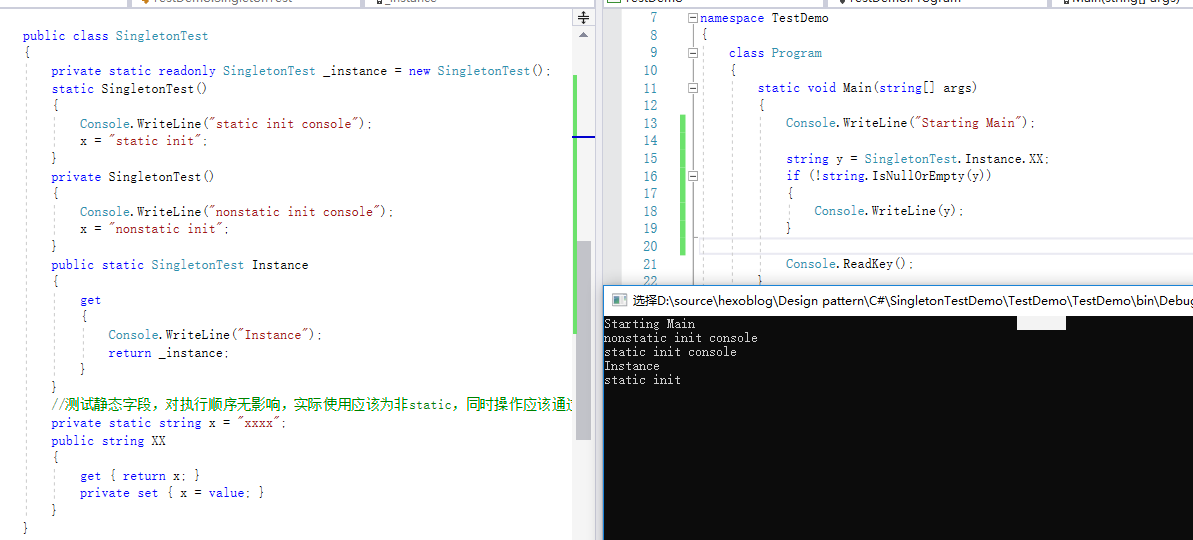
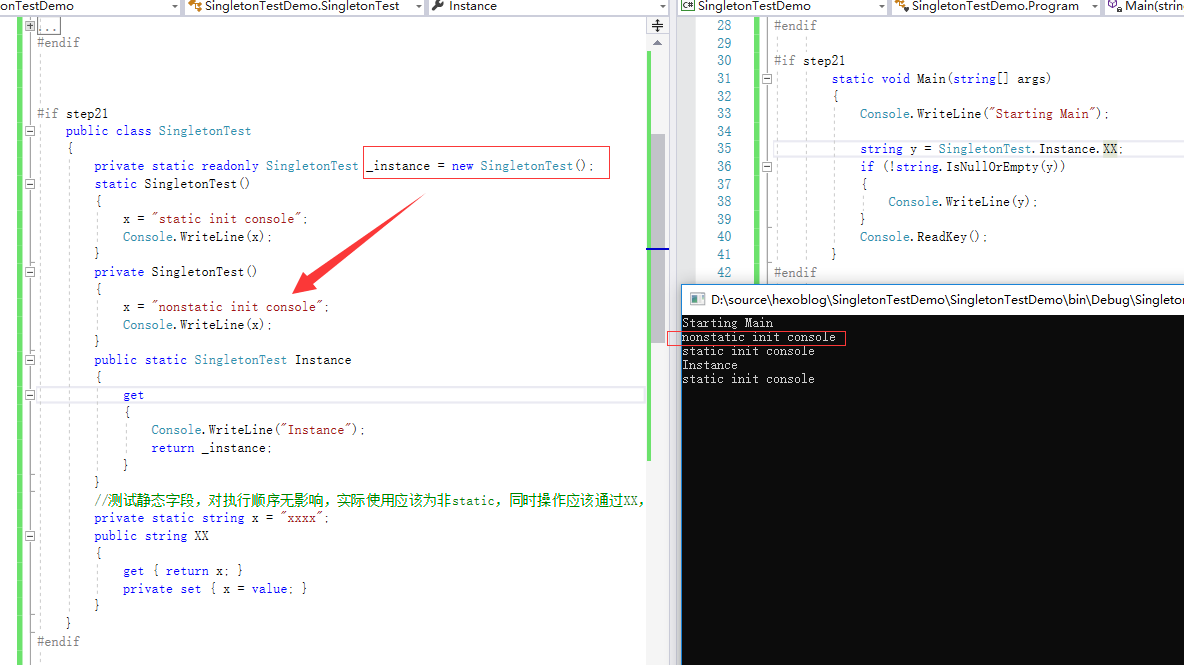
Site updated: 2018-10-14 21:32:53

diff --git a/2018/10/12/1IoDHSingleton/index.html b/2018/10/12/1IoDHSingleton/index.html
@@ -89,11 +89,12 @@
 <meta property="og:locale" content="zh-Hans">
 <meta property="og:image" content="http://yaojx.net/contentimg/1/1.png">
 <meta property="og:image" content="http://yaojx.net/contentimg/1/2.png">
+<meta property="og:image" content="http://yaojx.net/contentimg/1/3.png">
 <meta property="og:image" content="http://yaojx.net/contentimg/1/4.png">
 <meta property="og:image" content="http://yaojx.net/contentimg/1/5.png">
 <meta property="og:image" content="http://yaojx.net/contentimg/1/6.png">
 <meta property="og:image" content="http://yaojx.net/contentimg/1/7.png">
-<meta property="og:updated_time" content="2018-10-14T10:23:35.851Z">
+<meta property="og:updated_time" content="2018-10-14T13:27:44.014Z">
 <meta name="twitter:card" content="summary">
 <meta name="twitter:title" content="单例模式_静态构造函数实现和IoDH实现">
 <meta name="twitter:description" content="单例模式，简单字面意思就是整个程序中只进行一次初始化的操作。相对于静态类，单例模式能做到延迟加载，以及类继承。本文记录“静态构造函数下的单例模式”，以及介绍“Initialization Demand Holder(IoDH)”模式实现。该示例使用VS2017以及C#进行编程。">
@@ -355,10 +356,6 @@
           
 
           
-              <div class="post-description">
-                  　　单例模式，简单字面意思就是整个程序中只进行一次初始化的操作。相对于静态类，单例模式能做到延迟加载，以及类继承。本文记录“静态构造函数下的单例模式”，以及介绍“Initialization Demand Holder(IoDH)”模式实现。该示例使用VS2017以及C#进行编程。
-              </div>
-          
 
         </div>
       </header>
@@ -373,16 +370,19 @@
       
 
       
-        <h2 id="一-前言"><a href="#一-前言" class="headerlink" title="一.前言"></a>一.前言</h2><p>　　单例模式，简单字面意思就是整个程序中只进行一次初始化的操作。相对于静态类，单例模式能做到延迟加载，以及类继承。<br>　　目前有6+种实现方式。本文只记录“静态构造函数下的单例模式”和“Initialization Demand Holder(IoDH)”。其他部分在文末有转载链接可以查看。</p>
-<h2 id="二-代码记录"><a href="#二-代码记录" class="headerlink" title="二.代码记录"></a>二.代码记录</h2><h3 id="2-1-静态构造函数实现单例模式"><a href="#2-1-静态构造函数实现单例模式" class="headerlink" title="2.1  静态构造函数实现单例模式"></a>2.1  静态构造函数实现单例模式</h3><h4 id="2-1-1-执行记录"><a href="#2-1-1-执行记录" class="headerlink" title="2.1.1 执行记录"></a>2.1.1 执行记录</h4><p>　　这里我们直接上代码，根据结果进行记录：</p>
+        <p>　　单例模式，简单字面意思就是整个程序中只进行一次初始化的操作。相对于静态类，单例模式能做到延迟加载，以及类继承。本文记录“静态构造函数下的单例模式”，以及介绍“Initialization Demand Holder(IoDH)”模式实现。该示例使用VS2017以及C#进行编程。<br><a id="more"></a></p>
+<h2 id="一-前言"><a href="#一-前言" class="headerlink" title="一.前言"></a>一.前言</h2><p>　　单例模式，是编程中使用频率相当高的一种最简单的设计模式。可以简单理解为静态类的设计模式化。为什么会区别于静态类？</p>
+<p>　　静态类，一般用于“工具类”。在数据库连接等等场景下需要多线程的就不能使用静态类，其他应用于单线程下的操作，如文件读取，一般使用静态类。在软件优化中，第一个问题是初始化：静态类，会在程序启动的时候就会初始化，然后全局生存到进程结束。真有这个必要吗？我们打开程序时，一般先是登陆窗口，如果这个时候，一堆静态工具类也要加载初始化，那不就要等好久，还特占内存。</p>
+<p>　　所以在这个情况下产生了能做到延迟加载的单例模式，当然，它还能进行类继承等等其他解耦操作（不过该部分涉及到其他涉及模式，本文不深入讨论）。</p>
+<h2 id="二-代码记录"><a href="#二-代码记录" class="headerlink" title="二.代码记录"></a>二.代码记录</h2><h3 id="2-1-静态构造函数实现单例模式"><a href="#2-1-静态构造函数实现单例模式" class="headerlink" title="2.1  静态构造函数实现单例模式"></a>2.1  静态构造函数实现单例模式</h3><h4 id="2-1-1-静态类何时初始化"><a href="#2-1-1-静态类何时初始化" class="headerlink" title="2.1.1 静态类何时初始化"></a>2.1.1 静态类何时初始化</h4><p>　　这里我们直接上代码，根据结果进行记录：</p>
 <p>　　字段x初始化会在构造函数前面先执行。（重点。后面单例模式里面执行代码和想象中不同，考虑是这个原因。）</p>
-<figure class="highlight java"><table><tr><td class="gutter"><pre><span class="line">1</span><br><span class="line">2</span><br><span class="line">3</span><br><span class="line">4</span><br><span class="line">5</span><br><span class="line">6</span><br><span class="line">7</span><br><span class="line">8</span><br><span class="line">9</span><br><span class="line">10</span><br><span class="line">11</span><br><span class="line">12</span><br><span class="line">13</span><br><span class="line">14</span><br><span class="line">15</span><br><span class="line">16</span><br><span class="line">17</span><br><span class="line">18</span><br><span class="line">19</span><br><span class="line">20</span><br><span class="line">21</span><br><span class="line">22</span><br><span class="line">23</span><br><span class="line">24</span><br></pre></td><td class="code"><pre><span class="line"><span class="keyword">public</span> <span class="class"><span class="keyword">class</span> <span class="title">SingletonTest</span></span></span><br><span class="line"><span class="class"></span>&#123;</span><br><span class="line">    <span class="keyword">public</span> <span class="keyword">static</span> string x = EchoAndReturn(<span class="string">"A_In type initializer"</span>);</span><br><span class="line">    <span class="comment">/// </span></span><br><span class="line">    <span class="comment">/// 当没有写静态构造函数时，框架会自动生成</span></span><br><span class="line">    <span class="comment">/// 导致静态字段的初始化跑到了静态方法调用之前</span></span><br><span class="line">    <span class="comment">/// 造成对象的提前初始化</span></span><br><span class="line">    <span class="comment">/// </span></span><br><span class="line">    <span class="function"><span class="keyword">static</span> <span class="title">SingletonTest</span><span class="params">()</span></span></span><br><span class="line"><span class="function">    </span>&#123;</span><br><span class="line">        x = <span class="string">"A_static"</span>;</span><br><span class="line">        Console.WriteLine(<span class="string">"A_static init"</span>);</span><br><span class="line">    &#125;</span><br><span class="line">    <span class="function"><span class="keyword">public</span> <span class="title">SingletonTest</span><span class="params">()</span></span></span><br><span class="line"><span class="function">    </span>&#123;</span><br><span class="line">        x = <span class="string">"A_nonstatic"</span>;</span><br><span class="line">        Console.WriteLine(<span class="string">"A_nonstatic init"</span>);</span><br><span class="line">    &#125;</span><br><span class="line">    <span class="function"><span class="keyword">public</span> <span class="keyword">static</span> string <span class="title">EchoAndReturn</span><span class="params">(string s)</span></span></span><br><span class="line"><span class="function">    </span>&#123;</span><br><span class="line">        Console.WriteLine(s);</span><br><span class="line">        <span class="keyword">return</span> s;</span><br><span class="line">    &#125;</span><br><span class="line">&#125;</span><br></pre></td></tr></table></figure>
+<figure class="highlight"><table><tr><td class="gutter"><pre><span class="line">1</span><br><span class="line">2</span><br><span class="line">3</span><br><span class="line">4</span><br><span class="line">5</span><br><span class="line">6</span><br><span class="line">7</span><br><span class="line">8</span><br><span class="line">9</span><br><span class="line">10</span><br><span class="line">11</span><br><span class="line">12</span><br><span class="line">13</span><br><span class="line">14</span><br><span class="line">15</span><br><span class="line">16</span><br><span class="line">17</span><br><span class="line">18</span><br><span class="line">19</span><br><span class="line">20</span><br><span class="line">21</span><br><span class="line">22</span><br><span class="line">23</span><br><span class="line">24</span><br><span class="line">25</span><br><span class="line">26</span><br><span class="line">27</span><br><span class="line">28</span><br><span class="line">29</span><br><span class="line">30</span><br><span class="line">31</span><br></pre></td><td class="code"><pre><span class="line">#if step1</span><br><span class="line">    <span class="keyword">public</span> <span class="class"><span class="keyword">class</span> <span class="title">SingletonTest</span></span></span><br><span class="line"><span class="class">    </span>&#123;</span><br><span class="line">        <span class="keyword">public</span> <span class="keyword">static</span> string x = EchoAndReturn(<span class="string">"A_In type initializer"</span>);</span><br><span class="line"></span><br><span class="line">#if step1needstatic</span><br><span class="line">        <span class="comment">/// &lt;summary&gt;</span></span><br><span class="line">        <span class="comment">/// 当没有写静态构造函数时，框架会自动生成</span></span><br><span class="line">        <span class="comment">/// 导致静态字段的初始化跑到了静态方法调用之前</span></span><br><span class="line">        <span class="comment">/// 造成对象的提前初始化</span></span><br><span class="line">        <span class="comment">/// &lt;/summary&gt;</span></span><br><span class="line">        <span class="function"><span class="keyword">static</span> <span class="title">SingletonTest</span><span class="params">()</span></span></span><br><span class="line"><span class="function">        </span>&#123;</span><br><span class="line">            x = <span class="string">"A_static init"</span>;</span><br><span class="line">            Console.WriteLine(x);</span><br><span class="line">        &#125;</span><br><span class="line">#endif</span><br><span class="line"></span><br><span class="line">        <span class="function"><span class="keyword">public</span> <span class="title">SingletonTest</span><span class="params">()</span></span></span><br><span class="line"><span class="function">        </span>&#123;</span><br><span class="line">            x = <span class="string">"A_nonstatic init"</span>;</span><br><span class="line">            Console.WriteLine(x);</span><br><span class="line">        &#125;</span><br><span class="line"></span><br><span class="line">        <span class="function"><span class="keyword">public</span> <span class="keyword">static</span> string <span class="title">EchoAndReturn</span><span class="params">(string s)</span></span></span><br><span class="line"><span class="function">        </span>&#123;</span><br><span class="line">            Console.WriteLine(s);</span><br><span class="line">            <span class="keyword">return</span> s;</span><br><span class="line">        &#125;</span><br><span class="line">    &#125;</span><br><span class="line">#endif</span><br></pre></td></tr></table></figure>
 <p>　　对应main函数如下：</p>
-<figure class="highlight java"><table><tr><td class="gutter"><pre><span class="line">1</span><br><span class="line">2</span><br><span class="line">3</span><br><span class="line">4</span><br><span class="line">5</span><br><span class="line">6</span><br><span class="line">7</span><br><span class="line">8</span><br><span class="line">9</span><br><span class="line">10</span><br><span class="line">11</span><br><span class="line">12</span><br><span class="line">13</span><br><span class="line">14</span><br><span class="line">15</span><br><span class="line">16</span><br><span class="line">17</span><br><span class="line">18</span><br></pre></td><td class="code"><pre><span class="line"><span class="function"><span class="keyword">static</span> <span class="keyword">void</span> <span class="title">Main</span><span class="params">(string[] args)</span></span></span><br><span class="line"><span class="function"></span>&#123;</span><br><span class="line">    Console.WriteLine(<span class="string">"Starting Main"</span>);</span><br><span class="line">    <span class="comment">//SingletonTest_inherit b = new SingletonTest_inherit();</span></span><br><span class="line">    SingletonTest.EchoAndReturn(<span class="string">"Echo!"</span>);</span><br><span class="line">    Console.WriteLine(<span class="string">"After echo"</span>);</span><br><span class="line">    string y = SingletonTest.x;</span><br><span class="line">    <span class="keyword">if</span> (!string.IsNullOrEmpty(y))</span><br><span class="line">    &#123;</span><br><span class="line">        Console.WriteLine(y);</span><br><span class="line">    &#125;</span><br><span class="line">    <span class="comment">//y = SingletonTest_inherit.x;</span></span><br><span class="line">    <span class="comment">//if (!string.IsNullOrEmpty(y))</span></span><br><span class="line">    <span class="comment">//&#123;</span></span><br><span class="line">    <span class="comment">//    Console.WriteLine(y);</span></span><br><span class="line">    <span class="comment">//&#125;</span></span><br><span class="line">    Console.ReadKey();</span><br><span class="line">&#125;</span><br></pre></td></tr></table></figure>
-<p>git代码库: <a href="https://github.com/YaojiaxinPC/hexoblog/tree/master/TestDemo" target="_blank" rel="noopener">Codes</a></p>
+<figure class="highlight"><table><tr><td class="gutter"><pre><span class="line">1</span><br><span class="line">2</span><br><span class="line">3</span><br><span class="line">4</span><br><span class="line">5</span><br><span class="line">6</span><br><span class="line">7</span><br><span class="line">8</span><br><span class="line">9</span><br><span class="line">10</span><br><span class="line">11</span><br><span class="line">12</span><br><span class="line">13</span><br><span class="line">14</span><br><span class="line">15</span><br><span class="line">16</span><br></pre></td><td class="code"><pre><span class="line">#if step1</span><br><span class="line">        <span class="function"><span class="keyword">static</span> <span class="keyword">void</span> <span class="title">Main</span><span class="params">(string[] args)</span></span></span><br><span class="line"><span class="function">        </span>&#123;</span><br><span class="line">            Console.WriteLine(<span class="string">"Starting Main"</span>);</span><br><span class="line">            <span class="comment">//使用静态类</span></span><br><span class="line">            SingletonTest.EchoAndReturn(<span class="string">"Echo!"</span>);</span><br><span class="line">            Console.WriteLine(<span class="string">"After echo"</span>);</span><br><span class="line">            <span class="comment">//取出静态类中的静态成员x</span></span><br><span class="line">            string y = SingletonTest.x;</span><br><span class="line">            <span class="keyword">if</span> (!string.IsNullOrEmpty(y))</span><br><span class="line">            &#123;</span><br><span class="line">                Console.WriteLine(y);</span><br><span class="line">            &#125;</span><br><span class="line">            Console.ReadKey();</span><br><span class="line">        &#125;</span><br><span class="line">#endif</span><br></pre></td></tr></table></figure>
 <p><img src="/contentimg/1/1.png" alt="Result pic 1" title="2.1.1.1执行情况"></p>
-<p>　　可以看到：</p>
-<p>　　1.程序运行–》2.执行main函数–》3.使用到静态SingletonTest–》4.静态字段x的初始化–》5.静态构造函数的初始化–》6.静态函数EchoAndReturn的实现<br>　　–》字段x的值由于执行顺序，不是默认赋值的”A_In type initializer”，而是静态构造函数中赋值的x = “A_static”;</p>
+<p>　　根据main函数代码，直觉上，应该先输出“Starting Main”，然后输出“Echo!”，最后输出”After echo”和SingletonTest.x。总共4个输出。</p>
+<p>　　但是实际：</p>
+<p>　　1.程序运行–》2.执行main函数–》3.使用到静态SingletonTest–》4.静态字段x的初始化–》5.静态构造函数的初始化–》6.静态函数EchoAndReturn的使用<br>　　–》字段x的值由于执行顺序，不是默认赋值的”A_In type initializer”，而是静态构造函数中赋值的“A_static”;</p>
 <p>　　如果这里不加静态构造函数？</p>
 <p><img src="/contentimg/1/2.png" alt="Result pic 2" title="2.1.1.2执行情况"></p>
 <p>　　1.程序运行–》2.静态类型的初始化，静态SingletonTest、字段x提前初始化–》3.执行main函数。</p>
@@ -392,7 +392,7 @@
 </blockquote>
 <p>　　比较得出：</p>
 <p>　　<strong><em>显式静态构造函数使对象在被调用的时候才初始化，避免了static类型在程序启动的时候就提前初始化的问题。有利于程序的快速启动与内存的控制。</em></strong></p>
-<h4 id="2-1-2-单例模式实现"><a href="#2-1-2-单例模式实现" class="headerlink" title="2.1.2 单例模式实现"></a>2.1.2 单例模式实现</h4><figure class="highlight java"><table><tr><td class="gutter"><pre><span class="line">1</span><br><span class="line">2</span><br><span class="line">3</span><br><span class="line">4</span><br><span class="line">5</span><br><span class="line">6</span><br><span class="line">7</span><br><span class="line">8</span><br><span class="line">9</span><br><span class="line">10</span><br><span class="line">11</span><br><span class="line">12</span><br><span class="line">13</span><br><span class="line">14</span><br><span class="line">15</span><br><span class="line">16</span><br><span class="line">17</span><br></pre></td><td class="code"><pre><span class="line"><span class="keyword">public</span> <span class="class"><span class="keyword">class</span> <span class="title">SingletonTest</span></span></span><br><span class="line"><span class="class"></span>&#123;</span><br><span class="line">    <span class="keyword">private</span> <span class="keyword">static</span> readonly SingletonTest _instance = <span class="keyword">new</span> SingletonTest();</span><br><span class="line">    <span class="function"><span class="keyword">static</span> <span class="title">SingletonTest</span><span class="params">()</span></span></span><br><span class="line"><span class="function">    </span>&#123;</span><br><span class="line">    &#125;</span><br><span class="line">    <span class="function"><span class="keyword">private</span> <span class="title">SingletonTest</span><span class="params">()</span></span></span><br><span class="line"><span class="function">    </span>&#123;</span><br><span class="line">    &#125;</span><br><span class="line">    <span class="keyword">public</span> <span class="keyword">static</span> SingletonTest Instance</span><br><span class="line">    &#123;</span><br><span class="line">        get</span><br><span class="line">        &#123;</span><br><span class="line">            <span class="keyword">return</span> _instance;</span><br><span class="line">        &#125;</span><br><span class="line">    &#125;</span><br><span class="line">&#125;</span><br></pre></td></tr></table></figure>
+<h4 id="2-1-2-简单静态类单例模式实现"><a href="#2-1-2-简单静态类单例模式实现" class="headerlink" title="2.1.2 简单静态类单例模式实现"></a>2.1.2 简单静态类单例模式实现</h4><figure class="highlight java"><table><tr><td class="gutter"><pre><span class="line">1</span><br><span class="line">2</span><br><span class="line">3</span><br><span class="line">4</span><br><span class="line">5</span><br><span class="line">6</span><br><span class="line">7</span><br><span class="line">8</span><br><span class="line">9</span><br><span class="line">10</span><br><span class="line">11</span><br><span class="line">12</span><br><span class="line">13</span><br><span class="line">14</span><br><span class="line">15</span><br><span class="line">16</span><br><span class="line">17</span><br></pre></td><td class="code"><pre><span class="line"><span class="keyword">public</span> <span class="class"><span class="keyword">class</span> <span class="title">SingletonTest</span></span></span><br><span class="line"><span class="class"></span>&#123;</span><br><span class="line">    <span class="keyword">private</span> <span class="keyword">static</span> readonly SingletonTest _instance = <span class="keyword">new</span> SingletonTest();</span><br><span class="line">    <span class="function"><span class="keyword">static</span> <span class="title">SingletonTest</span><span class="params">()</span></span></span><br><span class="line"><span class="function">    </span>&#123;</span><br><span class="line">    &#125;</span><br><span class="line">    <span class="function"><span class="keyword">private</span> <span class="title">SingletonTest</span><span class="params">()</span></span></span><br><span class="line"><span class="function">    </span>&#123;</span><br><span class="line">    &#125;</span><br><span class="line">    <span class="keyword">public</span> <span class="keyword">static</span> SingletonTest Instance</span><br><span class="line">    &#123;</span><br><span class="line">        get</span><br><span class="line">        &#123;</span><br><span class="line">            <span class="keyword">return</span> _instance;</span><br><span class="line">        &#125;</span><br><span class="line">    &#125;</span><br><span class="line">&#125;</span><br></pre></td></tr></table></figure>
 <ol>
 <li>将构造函数private；</li>
 <li>显式实现static构造函数；</li>
@@ -400,7 +400,13 @@
 <li>public开放实例对外访问接口 Instance 属性。</li>
 </ol>
 <p>这样避免了静态类型的提前初始化，同时直接在初始化时候赋值的方式也避免了需要加锁的问题。</p>
-<h4 id="2-1-3-单例模式执行顺序"><a href="#2-1-3-单例模式执行顺序" class="headerlink" title="2.1.3 单例模式执行顺序"></a>2.1.3 单例模式执行顺序</h4><figure class="highlight java"><table><tr><td class="gutter"><pre><span class="line">1</span><br><span class="line">2</span><br><span class="line">3</span><br><span class="line">4</span><br><span class="line">5</span><br><span class="line">6</span><br><span class="line">7</span><br><span class="line">8</span><br><span class="line">9</span><br><span class="line">10</span><br><span class="line">11</span><br><span class="line">12</span><br><span class="line">13</span><br><span class="line">14</span><br><span class="line">15</span><br><span class="line">16</span><br><span class="line">17</span><br><span class="line">18</span><br><span class="line">19</span><br><span class="line">20</span><br><span class="line">21</span><br><span class="line">22</span><br><span class="line">23</span><br><span class="line">24</span><br><span class="line">25</span><br><span class="line">26</span><br><span class="line">27</span><br><span class="line">28</span><br><span class="line">29</span><br><span class="line">30</span><br><span class="line">31</span><br><span class="line">32</span><br><span class="line">33</span><br><span class="line">34</span><br><span class="line">35</span><br><span class="line">36</span><br><span class="line">37</span><br><span class="line">38</span><br><span class="line">39</span><br><span class="line">40</span><br><span class="line">41</span><br><span class="line">42</span><br><span class="line">43</span><br><span class="line">44</span><br><span class="line">45</span><br><span class="line">46</span><br><span class="line">47</span><br><span class="line">48</span><br><span class="line">49</span><br><span class="line">50</span><br><span class="line">51</span><br><span class="line">52</span><br><span class="line">53</span><br><span class="line">54</span><br><span class="line">55</span><br><span class="line">56</span><br><span class="line">57</span><br><span class="line">58</span><br></pre></td><td class="code"><pre><span class="line">    <span class="keyword">public</span> <span class="class"><span class="keyword">class</span> <span class="title">SingletonTest</span></span></span><br><span class="line"><span class="class">    </span>&#123;</span><br><span class="line">        <span class="keyword">private</span> <span class="keyword">static</span> readonly SingletonTest _instance = <span class="keyword">new</span> SingletonTest();</span><br><span class="line">        <span class="function"><span class="keyword">static</span> <span class="title">SingletonTest</span><span class="params">()</span></span></span><br><span class="line"><span class="function">        </span>&#123;</span><br><span class="line">            Console.WriteLine(<span class="string">"static init console"</span>);</span><br><span class="line">            x = <span class="string">"static init"</span>;</span><br><span class="line">        &#125;</span><br><span class="line">        <span class="function"><span class="keyword">private</span> <span class="title">SingletonTest</span><span class="params">()</span></span></span><br><span class="line"><span class="function">        </span>&#123;</span><br><span class="line">            Console.WriteLine(<span class="string">"nonstatic init console"</span>);</span><br><span class="line">            x = <span class="string">"nonstatic init"</span>;</span><br><span class="line">        &#125;</span><br><span class="line">        <span class="keyword">public</span> <span class="keyword">static</span> SingletonTest Instance</span><br><span class="line">        &#123;</span><br><span class="line">            get</span><br><span class="line">            &#123;</span><br><span class="line">                Console.WriteLine(<span class="string">"Instance"</span>);</span><br><span class="line">                <span class="keyword">return</span> _instance;</span><br><span class="line">            &#125;</span><br><span class="line">        &#125;</span><br><span class="line">        <span class="comment">//测试静态字段，对执行顺序无影响，实际使用应该为非static，同时操作应该通过XX，不能直接操作本字段</span></span><br><span class="line">        <span class="keyword">private</span> <span class="keyword">static</span> string x = <span class="string">"xxxx"</span>;</span><br><span class="line">        <span class="keyword">public</span> string XX</span><br><span class="line">        &#123;</span><br><span class="line">            get &#123; <span class="keyword">return</span> x; &#125;</span><br><span class="line">            <span class="keyword">private</span> set &#123; x = value; &#125;</span><br><span class="line">        &#125;</span><br><span class="line">    &#125;</span><br><span class="line">``` </span><br><span class="line">　　main函数中输出 Console.WriteLine( SingletonTest.Instance.XX);</span><br><span class="line">　　执行结果：</span><br><span class="line"></span><br><span class="line">![Result pic <span class="number">3</span>](/contentimg/<span class="number">1</span>/<span class="number">3</span>.png <span class="string">"2.1.3执行情况"</span>)</span><br><span class="line"></span><br><span class="line">　　<span class="number">1</span>.程序启动–》<span class="number">2</span>.遇到类SingletonTest–》<span class="number">3</span>.优先初始化<span class="keyword">static</span>属性_instance（Instance没有set,显式写也不会执行）–》<span class="number">4</span>._instance=<span class="keyword">new</span> SingletonTest()进行实例化–》<span class="number">5</span>.完成<span class="keyword">static</span>属性的初始化后进行<span class="keyword">static</span>构造函数的初始化–》<span class="number">6</span>.调用SingletonTest.Instance–》<span class="number">7</span>.获取结果XX得”<span class="keyword">static</span> init”</span><br><span class="line">　　–》注意这里不是先<span class="keyword">static</span> init，然后才nonstatic init。因为属性的初始化优先于<span class="keyword">static</span>构造函数。所以最后的结果是静态构造函数得执行顺序在nonstatic的后面。</span><br><span class="line"></span><br><span class="line">#### 2.1.4 继承问题</span><br><span class="line"></span><br><span class="line">　　这里题外话记录一下继承时的表现，进一步展示函数执行顺序：</span><br><span class="line"></span><br><span class="line">　　增加子类型：</span><br><span class="line"></span><br><span class="line">``` java</span><br><span class="line">    public class SingletonTest_inherit : SingletonTest</span><br><span class="line">    &#123;</span><br><span class="line">        <span class="function"><span class="keyword">static</span> <span class="title">SingletonTest_inherit</span><span class="params">()</span></span></span><br><span class="line"><span class="function">        </span>&#123;</span><br><span class="line">            x = <span class="string">"B_static"</span>;</span><br><span class="line">            Console.WriteLine(<span class="string">"B_static init"</span>);</span><br><span class="line">        &#125;</span><br><span class="line">        <span class="function"><span class="keyword">public</span> <span class="title">SingletonTest_inherit</span><span class="params">()</span></span></span><br><span class="line"><span class="function">        </span>&#123;</span><br><span class="line">            x = <span class="string">"B_nonstatic"</span>;</span><br><span class="line">            Console.WriteLine(<span class="string">"B_nonstatic init"</span>);</span><br><span class="line">        &#125;</span><br><span class="line">    &#125;</span><br></pre></td></tr></table></figure>
+<h4 id="2-1-3-单例模式执行顺序"><a href="#2-1-3-单例模式执行顺序" class="headerlink" title="2.1.3 单例模式执行顺序"></a>2.1.3 单例模式执行顺序</h4><figure class="highlight"><table><tr><td class="gutter"><pre><span class="line">1</span><br><span class="line">2</span><br><span class="line">3</span><br><span class="line">4</span><br><span class="line">5</span><br><span class="line">6</span><br><span class="line">7</span><br><span class="line">8</span><br><span class="line">9</span><br><span class="line">10</span><br><span class="line">11</span><br><span class="line">12</span><br><span class="line">13</span><br><span class="line">14</span><br><span class="line">15</span><br><span class="line">16</span><br><span class="line">17</span><br><span class="line">18</span><br><span class="line">19</span><br><span class="line">20</span><br><span class="line">21</span><br><span class="line">22</span><br><span class="line">23</span><br><span class="line">24</span><br><span class="line">25</span><br><span class="line">26</span><br><span class="line">27</span><br><span class="line">28</span><br><span class="line">29</span><br><span class="line">30</span><br><span class="line">31</span><br></pre></td><td class="code"><pre><span class="line">    #if step21</span><br><span class="line">    <span class="keyword">public</span> <span class="class"><span class="keyword">class</span> <span class="title">SingletonTest</span></span></span><br><span class="line"><span class="class">    </span>&#123;</span><br><span class="line">        <span class="keyword">private</span> <span class="keyword">static</span> readonly SingletonTest _instance = <span class="keyword">new</span> SingletonTest();</span><br><span class="line">        <span class="function"><span class="keyword">static</span> <span class="title">SingletonTest</span><span class="params">()</span></span></span><br><span class="line"><span class="function">        </span>&#123;</span><br><span class="line">            x = <span class="string">"static init console"</span>;</span><br><span class="line">            Console.WriteLine(x);</span><br><span class="line">        &#125;</span><br><span class="line">        <span class="function"><span class="keyword">private</span> <span class="title">SingletonTest</span><span class="params">()</span></span></span><br><span class="line"><span class="function">        </span>&#123;</span><br><span class="line">            x = <span class="string">"nonstatic init console"</span>;</span><br><span class="line">            Console.WriteLine(x);</span><br><span class="line">        &#125;</span><br><span class="line">        <span class="keyword">public</span> <span class="keyword">static</span> SingletonTest Instance</span><br><span class="line">        &#123;</span><br><span class="line">            get</span><br><span class="line">            &#123;</span><br><span class="line">                Console.WriteLine(<span class="string">"Instance"</span>);</span><br><span class="line">                <span class="keyword">return</span> _instance;</span><br><span class="line">            &#125;</span><br><span class="line">        &#125;</span><br><span class="line">        <span class="comment">//测试静态字段，对执行顺序无影响，实际使用应该为非static，同时操作应该通过XX，不能直接操作本字段</span></span><br><span class="line">        <span class="keyword">private</span> <span class="keyword">static</span> string x = <span class="string">"xxxx"</span>;</span><br><span class="line">        <span class="keyword">public</span> string XX</span><br><span class="line">        &#123;</span><br><span class="line">            get &#123; <span class="keyword">return</span> x; &#125;</span><br><span class="line">            <span class="keyword">private</span> set &#123; x = value; &#125;</span><br><span class="line">        &#125;</span><br><span class="line">    &#125;</span><br><span class="line">#endif</span><br></pre></td></tr></table></figure>
+<p>　　main函数中输出 Console.WriteLine( SingletonTest.Instance.XX);<br>　　执行结果：</p>
+<p><img src="/contentimg/1/3.png" alt="Result pic 3" title="2.1.3执行情况"></p>
+<p>　　1.程序启动–》2.遇到类SingletonTest–》3.优先初始化static属性_instance–》4._instance=new SingletonTest()进行实例化–》5.完成static属性的初始化后进行static构造函数的初始化–》6.调用SingletonTest.Instance–》7.获取结果XX得”static init”<br>　　–》注意这里不是先static init，然后才nonstatic init。因为属性的初始化优先于static构造函数。所以最后的结果是静态构造函数得执行顺序在nonstatic的后面。</p>
+<h4 id="2-1-4-继承问题"><a href="#2-1-4-继承问题" class="headerlink" title="2.1.4 继承问题"></a>2.1.4 继承问题</h4><p>　　这里题外话记录一下继承时的表现，进一步展示函数执行顺序：</p>
+<p>　　增加子类型：</p>
+<figure class="highlight java"><table><tr><td class="gutter"><pre><span class="line">1</span><br><span class="line">2</span><br><span class="line">3</span><br><span class="line">4</span><br><span class="line">5</span><br><span class="line">6</span><br><span class="line">7</span><br><span class="line">8</span><br><span class="line">9</span><br><span class="line">10</span><br><span class="line">11</span><br><span class="line">12</span><br><span class="line">13</span><br></pre></td><td class="code"><pre><span class="line">public class SingletonTest_inherit : SingletonTest</span><br><span class="line">&#123;</span><br><span class="line">    <span class="function"><span class="keyword">static</span> <span class="title">SingletonTest_inherit</span><span class="params">()</span></span></span><br><span class="line"><span class="function">    </span>&#123;</span><br><span class="line">        x = <span class="string">"B_static"</span>;</span><br><span class="line">        Console.WriteLine(<span class="string">"B_static init"</span>);</span><br><span class="line">    &#125;</span><br><span class="line">    <span class="function"><span class="keyword">public</span> <span class="title">SingletonTest_inherit</span><span class="params">()</span></span></span><br><span class="line"><span class="function">    </span>&#123;</span><br><span class="line">        x = <span class="string">"B_nonstatic"</span>;</span><br><span class="line">        Console.WriteLine(<span class="string">"B_nonstatic init"</span>);</span><br><span class="line">    &#125;</span><br><span class="line">&#125;</span><br></pre></td></tr></table></figure>
 <p>　　执行结果：</p>
 <p><img src="/contentimg/1/4.png" alt="Result pic 4" title="2.1.4.1执行情况"></p>
 <p>　　子对象的静态构造函数没有执行。</p>
@@ -415,6 +421,8 @@
 <h2 id="三-相关参考链接"><a href="#三-相关参考链接" class="headerlink" title="三.相关参考链接"></a>三.相关参考链接</h2><p> 主要参考博文: <a href="https://www.cnblogs.com/rush/archive/2011/10/30/2229565.html" target="_blank" rel="noopener">https://www.cnblogs.com/rush/archive/2011/10/30/2229565.html</a></p>
 <p> 提供继承方面的探讨: <a href="https://www.cnblogs.com/jiagoushi/p/3775046.html" target="_blank" rel="noopener">https://www.cnblogs.com/jiagoushi/p/3775046.html</a></p>
 <p> 对第一个博文进行扩展和实践: <a href="https://blog.csdn.net/abc524061/article/details/57086267?utm_source=itdadao&amp;utm_medium=referral" target="_blank" rel="noopener">https://blog.csdn.net/abc524061/article/details/57086267?utm_source=itdadao&amp;utm_medium=referral</a></p>
+<p> 本文测试程序工程可以从git直接获取：</p>
+<p> git代码库: <a href="https://github.com/YaojiaxinPC/hexoblog/tree/master/SingletonTestDemo" target="_blank" rel="noopener">Codes</a></p>
 
       
     </div>
@@ -620,7 +628,7 @@
             
 
             
-              <div class="post-toc-content"><ol class="nav"><li class="nav-item nav-level-2"><a class="nav-link" href="#一-前言"><span class="nav-number">1.</span> <span class="nav-text">一.前言</span></a></li><li class="nav-item nav-level-2"><a class="nav-link" href="#二-代码记录"><span class="nav-number">2.</span> <span class="nav-text">二.代码记录</span></a><ol class="nav-child"><li class="nav-item nav-level-3"><a class="nav-link" href="#2-1-静态构造函数实现单例模式"><span class="nav-number">2.1.</span> <span class="nav-text">2.1  静态构造函数实现单例模式</span></a><ol class="nav-child"><li class="nav-item nav-level-4"><a class="nav-link" href="#2-1-1-执行记录"><span class="nav-number">2.1.1.</span> <span class="nav-text">2.1.1 执行记录</span></a></li><li class="nav-item nav-level-4"><a class="nav-link" href="#2-1-2-单例模式实现"><span class="nav-number">2.1.2.</span> <span class="nav-text">2.1.2 单例模式实现</span></a></li><li class="nav-item nav-level-4"><a class="nav-link" href="#2-1-3-单例模式执行顺序"><span class="nav-number">2.1.3.</span> <span class="nav-text">2.1.3 单例模式执行顺序</span></a></li></ol></li><li class="nav-item nav-level-3"><a class="nav-link" href="#2-2-IoDH实现"><span class="nav-number">2.2.</span> <span class="nav-text">2.2 IoDH实现</span></a><ol class="nav-child"><li class="nav-item nav-level-4"><a class="nav-link" href="#2-2-1单例模式实现"><span class="nav-number">2.2.1.</span> <span class="nav-text">2.2.1单例模式实现</span></a></li><li class="nav-item nav-level-4"><a class="nav-link" href="#2-2-2-单例模式执行顺序"><span class="nav-number">2.2.2.</span> <span class="nav-text">2.2.2 单例模式执行顺序</span></a></li></ol></li></ol></li><li class="nav-item nav-level-2"><a class="nav-link" href="#三-相关参考链接"><span class="nav-number">3.</span> <span class="nav-text">三.相关参考链接</span></a></li></ol></div>
+              <div class="post-toc-content"><ol class="nav"><li class="nav-item nav-level-2"><a class="nav-link" href="#一-前言"><span class="nav-number">1.</span> <span class="nav-text">一.前言</span></a></li><li class="nav-item nav-level-2"><a class="nav-link" href="#二-代码记录"><span class="nav-number">2.</span> <span class="nav-text">二.代码记录</span></a><ol class="nav-child"><li class="nav-item nav-level-3"><a class="nav-link" href="#2-1-静态构造函数实现单例模式"><span class="nav-number">2.1.</span> <span class="nav-text">2.1  静态构造函数实现单例模式</span></a><ol class="nav-child"><li class="nav-item nav-level-4"><a class="nav-link" href="#2-1-1-静态类何时初始化"><span class="nav-number">2.1.1.</span> <span class="nav-text">2.1.1 静态类何时初始化</span></a></li><li class="nav-item nav-level-4"><a class="nav-link" href="#2-1-2-简单静态类单例模式实现"><span class="nav-number">2.1.2.</span> <span class="nav-text">2.1.2 简单静态类单例模式实现</span></a></li><li class="nav-item nav-level-4"><a class="nav-link" href="#2-1-3-单例模式执行顺序"><span class="nav-number">2.1.3.</span> <span class="nav-text">2.1.3 单例模式执行顺序</span></a></li><li class="nav-item nav-level-4"><a class="nav-link" href="#2-1-4-继承问题"><span class="nav-number">2.1.4.</span> <span class="nav-text">2.1.4 继承问题</span></a></li></ol></li><li class="nav-item nav-level-3"><a class="nav-link" href="#2-2-IoDH实现"><span class="nav-number">2.2.</span> <span class="nav-text">2.2 IoDH实现</span></a><ol class="nav-child"><li class="nav-item nav-level-4"><a class="nav-link" href="#2-2-1单例模式实现"><span class="nav-number">2.2.1.</span> <span class="nav-text">2.2.1单例模式实现</span></a></li><li class="nav-item nav-level-4"><a class="nav-link" href="#2-2-2-单例模式执行顺序"><span class="nav-number">2.2.2.</span> <span class="nav-text">2.2.2 单例模式执行顺序</span></a></li></ol></li></ol></li><li class="nav-item nav-level-2"><a class="nav-link" href="#三-相关参考链接"><span class="nav-number">3.</span> <span class="nav-text">三.相关参考链接</span></a></li></ol></div>
             
 
           </div>

diff --git a/index.html b/index.html
@@ -365,10 +365,10 @@
 
       
         
-          　　单例模式，简单字面意思就是整个程序中只进行一次初始化的操作。相对于静态类，单例模式能做到延迟加载，以及类继承。本文记录“静态构造函数下的单例模式”，以及介绍“Initialization Demand Holder(IoDH)”模式实现。该示例使用VS2017以及C#进行编程。
+          <p>　　单例模式，简单字面意思就是整个程序中只进行一次初始化的操作。相对于静态类，单例模式能做到延迟加载，以及类继承。本文记录“静态构造函数下的单例模式”，以及介绍“Initialization Demand Holder(IoDH)”模式实现。该示例使用VS2017以及C#进行编程。<br>
           <!--noindex-->
           <div class="post-button text-center">
-            <a class="btn" href="/2018/10/12/1IoDHSingleton/">
+            <a class="btn" href="/2018/10/12/1IoDHSingleton/#more" rel="contents">
               阅读全文 &raquo;
             </a>
           </div>

diff --git a/css/main.css b/css/main.css
@@ -1943,7 +1943,7 @@ pre .javascript .function {
   width: 4px;
   height: 4px;
   border-radius: 50%;
-  background: #053ce3;
+  background: #3e0de0;
 }
 .links-of-blogroll {
   font-size: 13px;
